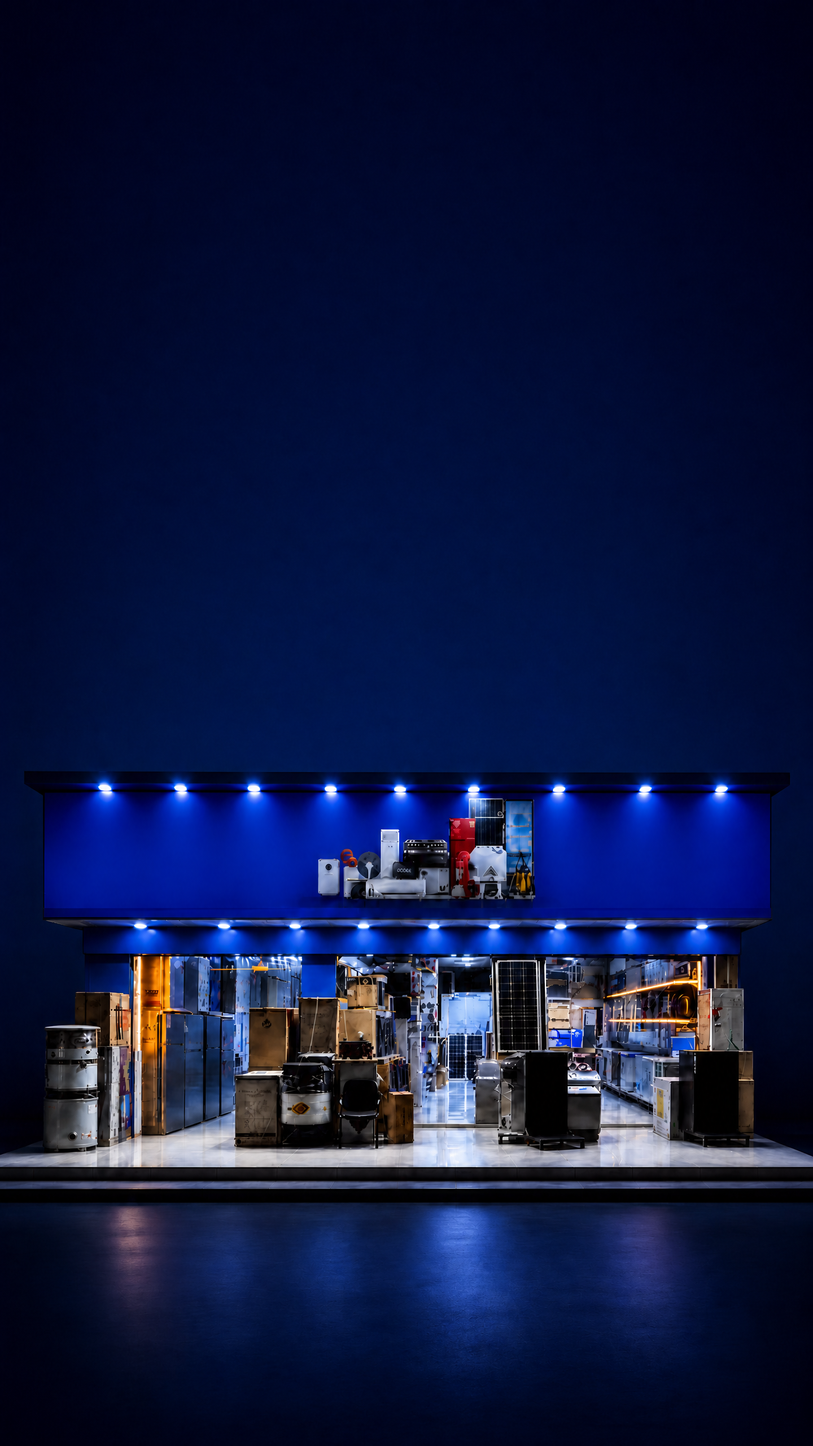
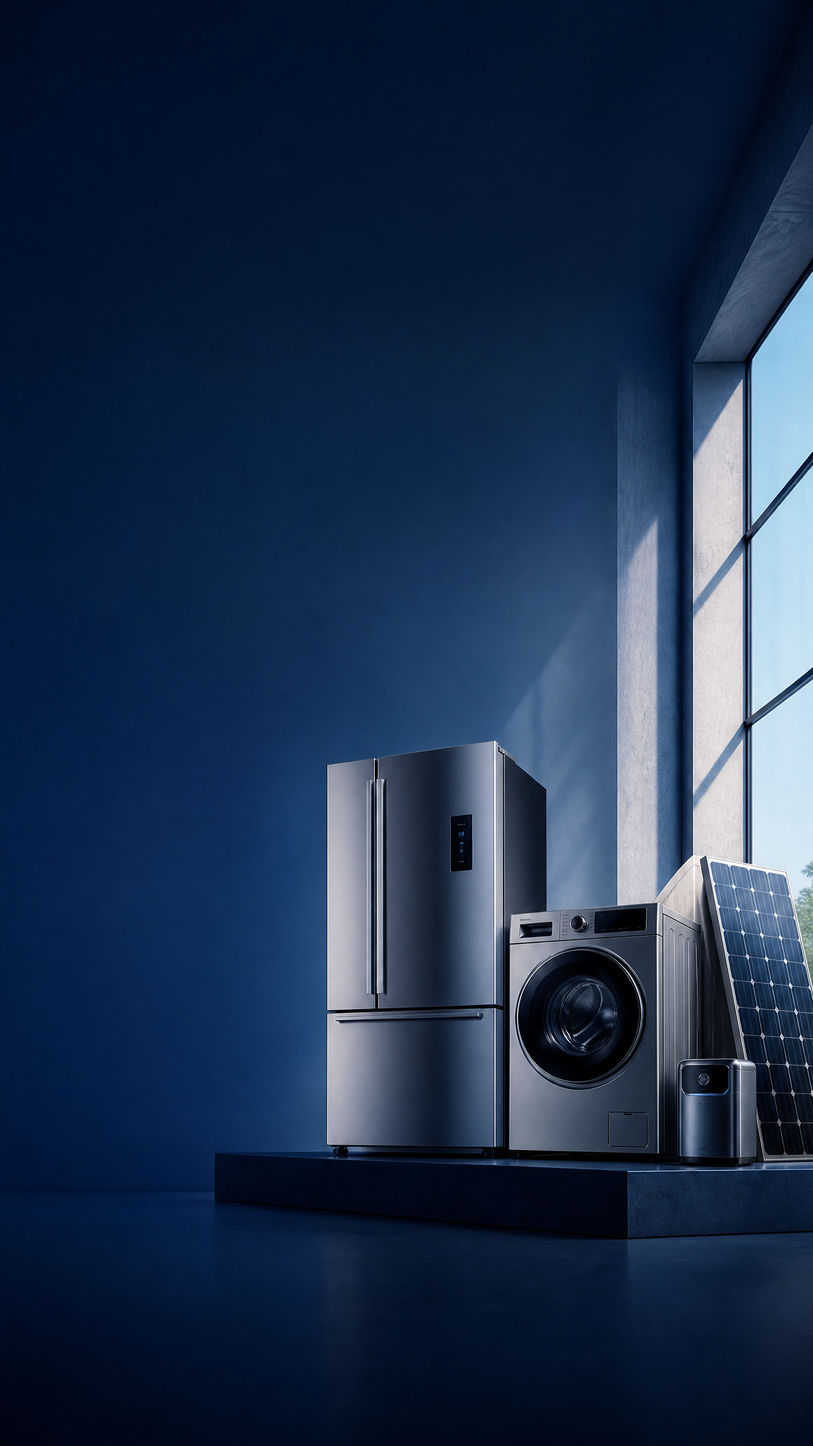
Redesign mobile hero composition

diff --git a/components/Hero.tsx b/components/Hero.tsx
@@ -60,24 +60,25 @@ export default function Hero({
 
       <div className="absolute inset-0 hidden bg-[linear-gradient(90deg,rgba(3,12,45,0.06),rgba(4,20,72,0.04)_46%,rgba(5,18,62,0.3))] lg:block" />
       <div className="absolute inset-0 hidden bg-[radial-gradient(circle_at_12%_75%,rgba(63,124,255,0.18),transparent_34%)] lg:block" />
-      <div className="absolute inset-0 bg-[linear-gradient(180deg,rgba(2,9,31,0.16),rgba(2,9,31,0.02)_38%,rgba(2,9,31,0.06)_70%,rgba(2,9,31,0.28))] lg:hidden" />
+      <div className="absolute inset-0 bg-[linear-gradient(180deg,rgba(3,15,40,0.28),rgba(3,15,40,0.04)_34%,rgba(2,10,27,0.18)_62%,rgba(2,10,27,0.72))] lg:hidden" />
+      <div className="absolute inset-0 bg-[radial-gradient(circle_at_18%_30%,rgba(90,146,255,0.16),transparent_38%)] lg:hidden" />
 
-      {/* Phone layout: the image reserves the top and bottom negative space; content stays live HTML. */}
-      <div className="relative z-10 flex min-h-[100dvh] flex-col justify-between px-5 pb-[calc(var(--mobile-bottom-nav-height)+2.25rem)] pt-28 sm:px-8 lg:hidden">
+      {/* Phone layout: restrained HTML copy over a spacious editorial composition. */}
+      <div className="relative z-10 min-h-[100dvh] lg:hidden">
         <motion.div
           initial={{ opacity: 0, y: -12 }}
           animate={{ opacity: 1, y: 0 }}
           transition={{ duration: 0.7 }}
-          className="mx-auto w-full max-w-md text-center text-white drop-shadow-[0_2px_14px_rgba(0,0,0,0.42)]"
+          className="absolute inset-x-6 top-28 text-right text-white drop-shadow-[0_2px_14px_rgba(0,0,0,0.42)] sm:inset-x-8 sm:top-32"
         >
-          <div className="font-sans text-base font-extrabold tracking-[0.2em] text-[#f4d36d]" dir="ltr">
-            {brandNameLatin}
+          <div className="mb-3 text-[10px] font-bold tracking-[0.22em] text-blue-200" dir="ltr">
+            GENERAL TRADING · PRACTICAL SOLUTIONS
           </div>
-          <h1 className="mt-1 text-4xl font-black leading-tight">{data.heroTitle || brandName}</h1>
-          <p className="mt-1 text-lg font-bold leading-relaxed text-white">
+          <h1 className="text-[2rem] font-extrabold leading-[1.12] tracking-[-0.05em] sm:text-[2.15rem]">{data.heroTitle || brandName}</h1>
+          <p className="mt-2 text-[1.15rem] font-medium leading-[1.35] tracking-[-0.04em] text-white/90 sm:text-xl">
             {data.heroSubtitle || "للتجارة العامة والحلول العملية"}
           </p>
-          <p className="mx-auto mt-3 max-w-sm whitespace-pre-line text-sm font-medium leading-7 text-white/95">
+          <p className="ml-auto mt-4 max-w-[18rem] whitespace-pre-line text-[0.78rem] font-normal leading-7 text-blue-50/80 sm:text-sm">
             {data.heroDescription || "توريد موثوق ومنتجات عملية للأعمال والمنازل، بخدمة واضحة تبدأ من احتياجك."}
           </p>
         </motion.div>
@@ -86,12 +87,12 @@ export default function Hero({
           initial={{ opacity: 0, y: 14 }}
           animate={{ opacity: 1, y: 0 }}
           transition={{ duration: 0.7, delay: 0.25 }}
-          className="grid grid-cols-2 gap-3"
+          className="absolute inset-x-6 bottom-[calc(var(--mobile-bottom-nav-height)+1.55rem)] grid grid-cols-2 gap-2 sm:inset-x-8"
         >
-          <button onClick={scrollToProducts} className="btn btn-primary min-h-12 w-full rounded-2xl px-3 text-sm font-extrabold shadow-lg shadow-black/20">
+          <button onClick={scrollToProducts} className="btn btn-primary min-h-11 w-full rounded-xl px-2 text-[0.72rem] font-bold shadow-lg shadow-black/20 sm:text-xs">
             اكتشف منتجاتنا
           </button>
-          <button onClick={scrollToAbout} className="btn min-h-12 w-full rounded-2xl border border-white/35 bg-brand/90 px-3 text-sm font-extrabold text-white shadow-lg shadow-black/20 hover:bg-brand">
+          <button onClick={scrollToAbout} className="btn min-h-11 w-full rounded-xl border border-white/45 bg-brand/20 px-2 text-[0.72rem] font-bold text-white shadow-lg shadow-black/20 backdrop-blur-md hover:bg-brand/40 sm:text-xs">
             {data.heroSecondaryButton || "تعرف علينا"}
           </button>
         </motion.div>
